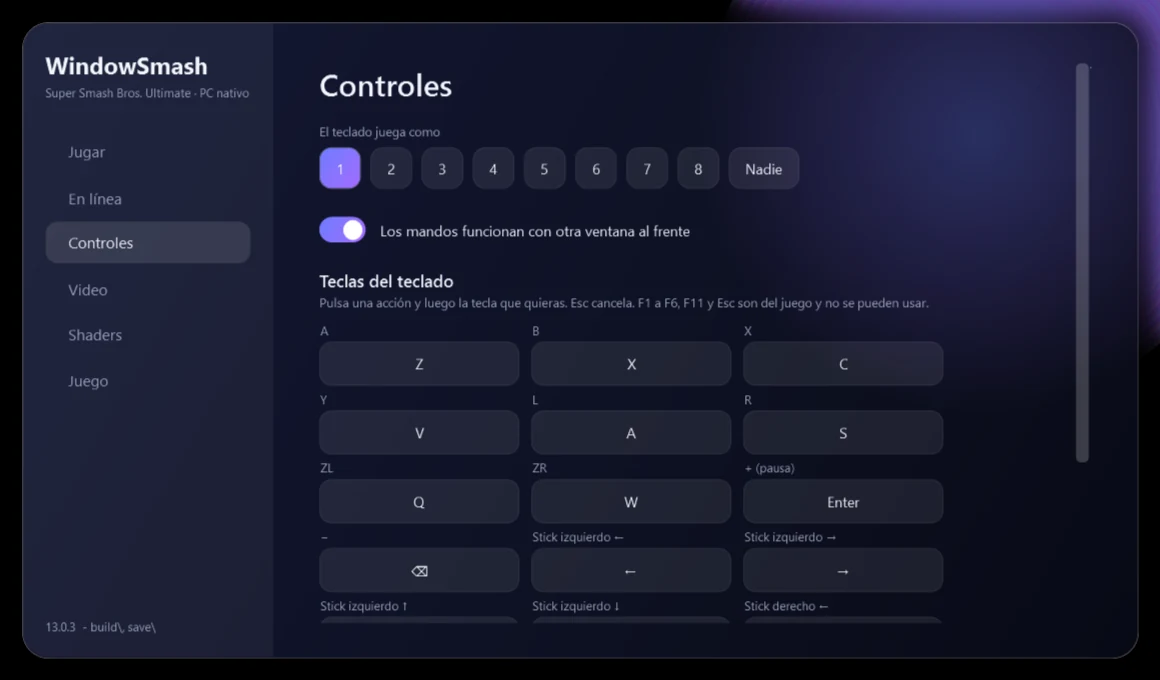
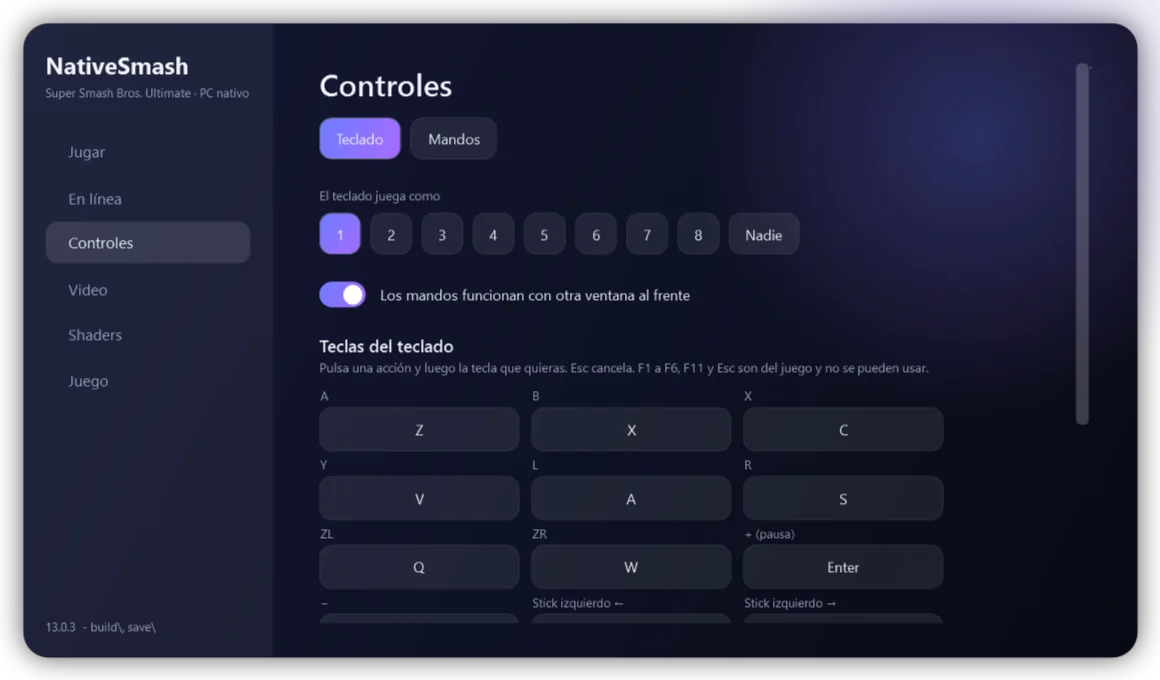
Site: a "What's new" section read from GitHub's releases, four new feature cards, current launcher screenshots

diff --git a/site/index.html b/site/index.html
@@ -128,6 +128,17 @@
     .cta .btn { justify-content: center; }
   }
   @media (prefers-reduced-motion: reduce) { * { transition: none !important; scroll-behavior: auto !important; } }
+  /* what's new: the notes of the newest releases, read from GitHub */
+  .notes { display: grid; gap: 14px; margin-top: 26px; }
+  .note { background: var(--veil); border-radius: 20px; padding: 22px 24px; box-shadow: inset 0 0 0 1px var(--edge); }
+  .note h3 { margin: 0 0 2px; font-size: 20px; }
+  .note .date { margin: 0 0 12px; color: var(--muted); font-size: 14px; }
+  .note p, .note li { color: var(--muted); font-size: 15px; margin: 0 0 10px; }
+  .note ul { margin: 0 0 10px; padding-left: 20px; }
+  .note b { color: var(--ink); font-weight: 600; }
+  .note code { background: rgba(255,255,255,.08); padding: 1px 6px; border-radius: 6px; font-size: 13px; color: var(--ink); }
+  .note summary { cursor: pointer; font-weight: 600; font-size: 18px; }
+  .note details[open] summary { margin-bottom: 10px; }
 </style>
 </head>
 <body>
@@ -137,6 +148,7 @@
     <a class="brand" href="#top"><span class="logo"><svg viewBox="0 0 24 24" fill="none" stroke="white" stroke-width="3" stroke-linecap="round" stroke-linejoin="round"><path d="M7 19V5l10 14V5"/></svg></span>NativeSmash</a>
     <nav>
       <a class="link" href="#funciones"><span data-l="es">Funciones</span><span data-l="en">Features</span></a>
+      <a class="link" href="#novedades"><span data-l="es">Novedades</span><span data-l="en">What's new</span></a>
       <a class="link" href="#instalar"><span data-l="es">Cómo se instala</span><span data-l="en">How to install</span></a>
       <a class="link" href="#creditos"><span data-l="es">Créditos</span><span data-l="en">Credits</span></a>
       <a class="btn soft" style="padding:9px 18px;font-size:15px" href="https://github.com/gomeztorressandygabriel-cloud/NativeSmash" rel="noopener">GitHub</a>
@@ -206,6 +218,22 @@
         <div class="ico"><svg viewBox="0 0 24 24" fill="none" stroke="#c9d0ff" stroke-width="2" stroke-linecap="round" stroke-linejoin="round"><path d="M21 12a9 9 0 1 1-3-6.7M21 4v5h-5"/></svg></div>
         <h3><span data-l="es">Actualizaciones desde GitHub</span><span data-l="en">Updates from GitHub</span></h3>
         <p><span data-l="es">El launcher avisa cuando hay una versión nueva y la instala con un clic, sin tocar tus ajustes.</span><span data-l="en">The launcher tells you when a new version is out and installs it in one click, without touching your settings.</span></p></article>
+      <article class="card"><span class="tag ok"><span data-l="es">Listo</span><span data-l="en">Ready</span></span>
+        <div class="ico"><svg viewBox="0 0 24 24" fill="none" stroke="#c9d0ff" stroke-width="2" stroke-linecap="round" stroke-linejoin="round"><rect x="2" y="6" width="20" height="12" rx="3"/><path d="M7 10v4M5 12h4M16 11h.01M18 13h.01"/></svg></div>
+        <h3><span data-l="es">Mandos configurables</span><span data-l="en">Configurable controllers</span></h3>
+        <p><span data-l="es">Elige cómo juega cada mando desde el launcher: estilo, zona muerta, vibración, gatillos y cada botón, pulsándolo en el propio mando.</span><span data-l="en">Choose how each controller plays from the launcher: style, dead zone, rumble, triggers and every button, by pressing it on the controller itself.</span></p></article>
+      <article class="card"><span class="tag ok"><span data-l="es">Listo</span><span data-l="en">Ready</span></span>
+        <div class="ico"><svg viewBox="0 0 24 24" fill="none" stroke="#c9d0ff" stroke-width="2" stroke-linecap="round" stroke-linejoin="round"><path d="M4 18V8m5 10V4m5 14v-6m5 6V9"/></svg></div>
+        <h3><span data-l="es">Memoria estable</span><span data-l="en">Steady memory</span></h3>
+        <p><span data-l="es">Arreglamos una fuga de memoria en gráficas Intel y el juego descarga los shaders que no usa: ya no se ralentiza con el paso del tiempo.</span><span data-l="en">We fixed a memory leak on Intel graphics and the game lets go of the shaders it is not using: it no longer slows down as time goes by.</span></p></article>
+      <article class="card"><span class="tag ok"><span data-l="es">Listo</span><span data-l="en">Ready</span></span>
+        <div class="ico"><svg viewBox="0 0 24 24" fill="none" stroke="#c9d0ff" stroke-width="2" stroke-linecap="round" stroke-linejoin="round"><path d="M3 12h4l3-8 4 16 3-8h4"/></svg></div>
+        <h3><span data-l="es">Monitor de rendimiento</span><span data-l="en">Performance monitor</span></h3>
+        <p><span data-l="es">Un monitor opcional mide cada segundo los fotogramas, el procesador, la memoria y la gráfica, para encontrar qué frena el juego en tu PC.</span><span data-l="en">An optional monitor measures the frames, the processor, the memory and the graphics card every second, to find what slows the game down on your PC.</span></p></article>
+      <article class="card"><span class="tag ok"><span data-l="es">Listo</span><span data-l="en">Ready</span></span>
+        <div class="ico"><svg viewBox="0 0 24 24" fill="none" stroke="#c9d0ff" stroke-width="2" stroke-linecap="round" stroke-linejoin="round"><rect x="3" y="3" width="18" height="18" rx="3"/><path d="M3 12h18M12 3v18"/></svg></div>
+        <h3><span data-l="es">Calidad de texturas</span><span data-l="en">Texture quality</span></h3>
+        <p><span data-l="es">Automática, Alta, Media o Baja: en un PC con poca RAM las texturas ocupan menos y el juego va más desahogado.</span><span data-l="en">Automatic, High, Medium or Low: on a PC with little RAM the textures take less and the game breathes easier.</span></p></article>
     </div>
 
     <div class="two">
@@ -222,6 +250,13 @@
       </div>
       <img src="img/launcher-pads.webp" width="1160" height="680" alt="La página de controles del launcher" loading="lazy">
     </div>
+  </div></section>
+
+  <section id="novedades"><div class="wrap">
+    <h2><span data-l="es">Novedades</span><span data-l="en">What's new</span></h2>
+    <p class="sub"><span data-l="es">Lo que trae cada versión, leído directamente de GitHub.</span><span data-l="en">What each version brings, read straight from GitHub.</span></p>
+    <div class="notes" id="notes"><div class="note"><p><span data-l="es">Cargando las novedades…</span><span data-l="en">Loading what's new…</span></p></div></div>
+    <p style="margin-top:14px"><a href="https://github.com/gomeztorressandygabriel-cloud/NativeSmash/releases" rel="noopener"><span data-l="es">Ver todas las versiones en GitHub</span><span data-l="en">See every version on GitHub</span></a></p>
   </div></section>
 
   <section id="instalar"><div class="wrap">
@@ -288,6 +323,50 @@
         });
       })
       .catch(function () {});
+  })();
+  /* What's new: the notes of the newest releases, from GitHub. A release's text has a Spanish part and an English one
+     (after "**Español**" and "**English**"); each is shown in its language. Nothing here changes with a new version. */
+  (function () {
+    var repo = 'gomeztorressandygabriel-cloud/NativeSmash', box = document.getElementById('notes');
+    if (!box) return;
+    function esc(t) { return t.replace(/&/g, '&amp;').replace(/</g, '&lt;').replace(/>/g, '&gt;'); }
+    function inline(t) { return esc(t).replace(/\*\*(.+?)\*\*/g, '<b>$1</b>').replace(/\*([^*]+)\*/g, '<i>$1</i>').replace(/`([^`]+)`/g, '<code>$1</code>'); }
+    function markdown(text) {
+      var out = '', list = false;
+      text.split('\n').forEach(function (line) {
+        line = line.trim();
+        var li = /^[-*]\s+(.*)$/.exec(line);
+        if (list && !li) { out += '</ul>'; list = false; }
+        if (!line) return;
+        if (li) { if (!list) { out += '<ul>'; list = true; } out += '<li>' + inline(li[1]) + '</li>'; }
+        else if (!/^#/.test(line)) out += '<p>' + inline(line) + '</p>';
+      });
+      return out + (list ? '</ul>' : '');
+    }
+    function part(body, lang) {
+      var es = body.indexOf('**Español**'), en = body.indexOf('**English**');
+      if (es < 0 || en < 0) return body;
+      return lang === 'es' ? body.slice(es + 11, en) : body.slice(en + 11);
+    }
+    function date(iso, lang) {
+      try { return new Date(iso).toLocaleDateString(lang === 'es' ? 'es' : 'en', { year: 'numeric', month: 'long', day: 'numeric' }); } catch (e) { return ''; }
+    }
+    fetch('https://api.github.com/repos/' + repo + '/releases?per_page=4', { headers: { Accept: 'application/vnd.github+json' } })
+      .then(function (r) { return r.ok ? r.json() : Promise.reject(); })
+      .then(function (list) {
+        var html = '';
+        list.filter(function (r) { return !r.draft; }).forEach(function (r, i) {
+          ['es', 'en'].forEach(function (lang) {
+            var inner = '<h3>' + esc(r.name || r.tag_name) + '</h3><p class="date">' + date(r.published_at, lang) + '</p>' + markdown(part(r.body || '', lang));
+            html += '<div class="note" data-l="' + lang + '">' + (i === 0 ? inner
+              : '<details><summary>' + esc(r.name || r.tag_name) + '</summary><p class="date">' + date(r.published_at, lang) + '</p>' + markdown(part(r.body || '', lang)) + '</details>') + '</div>';
+          });
+        });
+        if (html) box.innerHTML = html;
+      })
+      .catch(function () {
+        box.innerHTML = '<div class="note"><p><span data-l="es">No se pudieron cargar las novedades. Míralas en GitHub.</span><span data-l="en">The notes could not be loaded. See them on GitHub.</span></p></div>';
+      });
   })();
 </script>
 </body>
